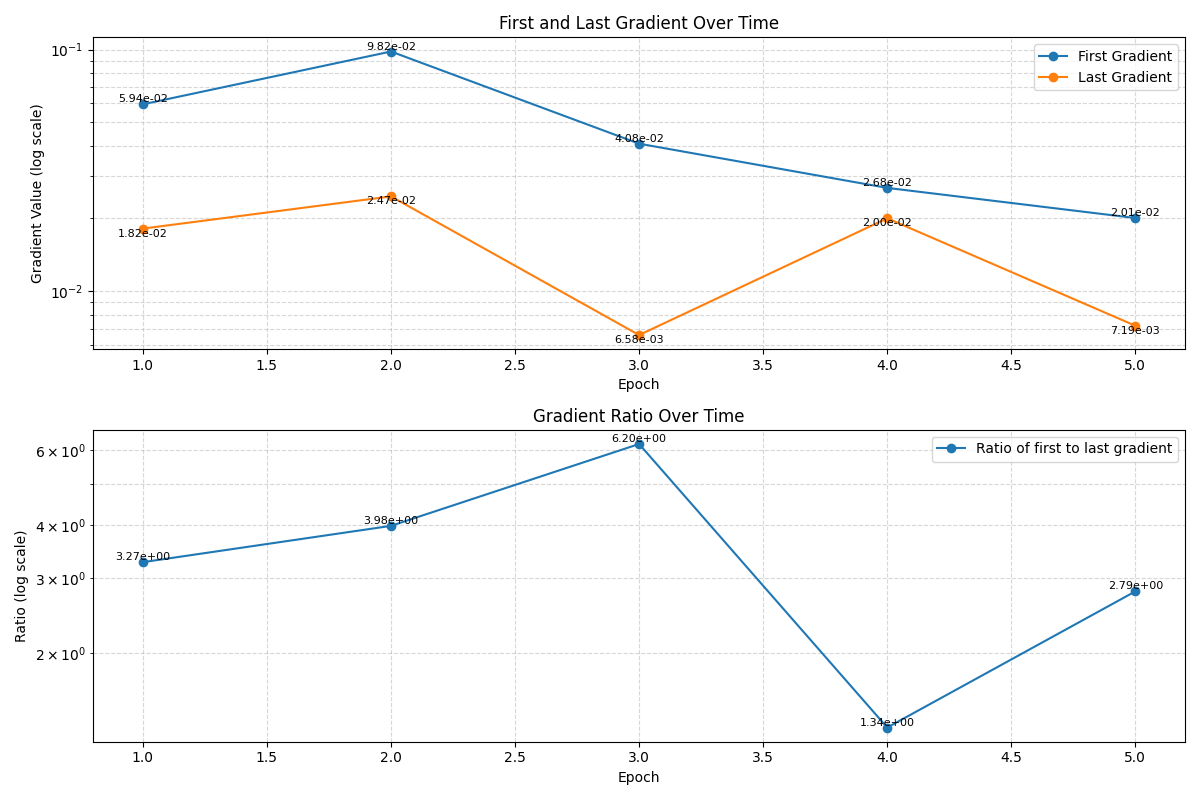
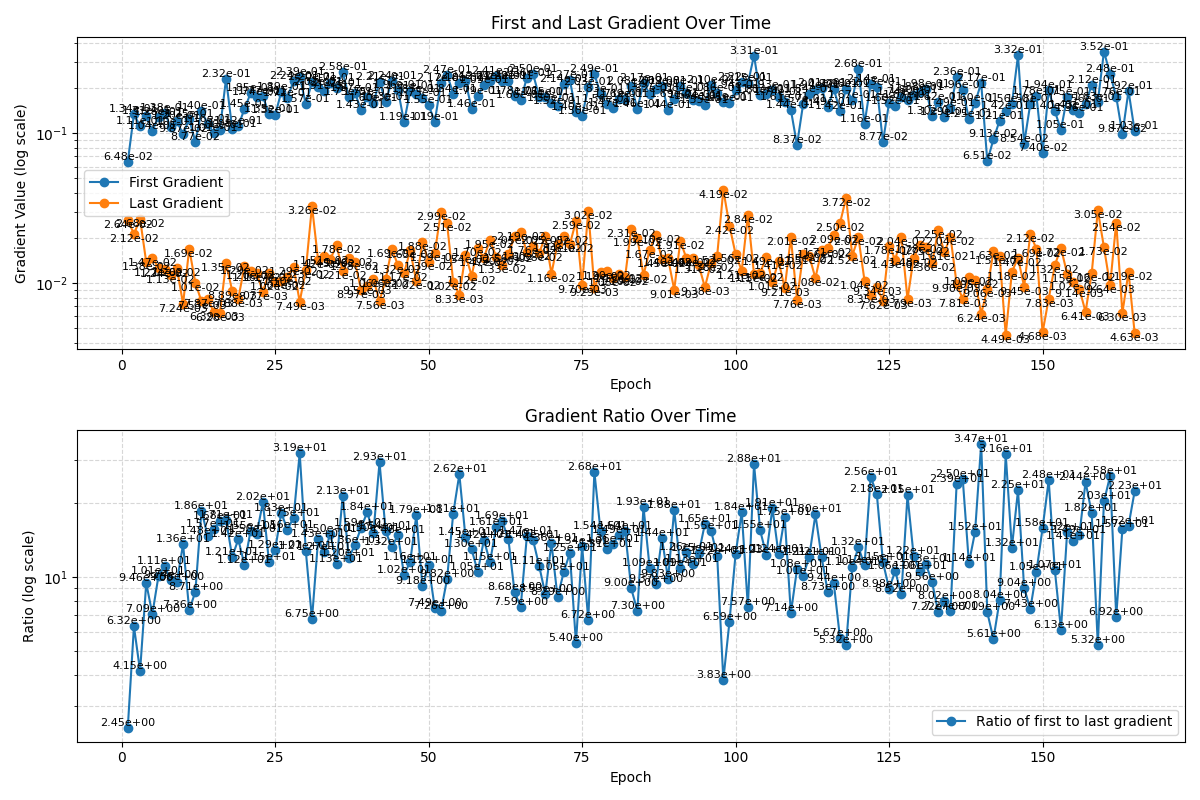
Add Dropout , gamma = 0.5

diff --git a/ssi_implimentation.py b/ssi_implimentation.py
@@ -49,7 +49,7 @@ class EdgesModule(nn.Module):
 Graph Module defines model where input goes into graph, is calculated along several paths, normalised, and outputed
 """
 class GraphModule(nn.Module):
-    def __init__(self, graph, dim):
+    def __init__(self, graph, dim, dropout = 0.2):
         super().__init__()
         # Defining important stuff like the graph dict, the entry and exit node, and how many dimensions in the input data
         self.graph = graph
@@ -57,6 +57,7 @@ class GraphModule(nn.Module):
         self.exit_node = list(graph.keys())[-1]
         self.dim = dim
         self.exit_weight = EdgesModule(self.dim)
+        self.dropout = nn.Dropout(dropout)
 
         # Generating all paths from graph
         self.all_paths = self.generate_paths(graph, self.entry_node, self.exit_node)
@@ -246,21 +247,21 @@ def summarySave(finalLoss, model):
 def sigmoid(x):
     return 1/(1+np.exp(-x))
 
-def customCriterion(logits, y, alpha=None, gamma=2.0):
-    ce_loss = F.cross_entropy(logits, y, reduction='none')  # [batch]
+def customCriterion(logits, y, class_weights, gamma=0.5):
+    ce_loss = F.cross_entropy(logits, y, reduction='none')
     probs = F.softmax(logits, dim=1)
-    pt = probs[range(len(y)), y]  
+    pt = probs[range(len(y)), y]
     
+    # Gentle focusing
     focal_weight = (1 - pt) ** gamma
-    loss = focal_weight * ce_loss
     
-    if alpha is not None:
-        loss = loss * alpha[y]
+    # Apply class weights
+    weighted_loss = focal_weight * ce_loss * class_weights[y]
     
-    return loss.mean()
+    return weighted_loss.mean()
 
 # This is the main training and evaluation loop
-def train_model(model, trainLoader, testLoader, device, epochs=165, lr=0.0005):
+def train_model(model, trainLoader, testLoader, device, epochs=30, lr=0.0001):
     # Compute class weights based on training labels
     penalty_dict = {1: 0.487599, 0: 0.364605, 2: 0.061537, 6: 0.035300, 5: 0.029890, 4: 0.016338, 3: 0.004727}
     max_class = max(penalty_dict.keys())
@@ -301,7 +302,7 @@ def train_model(model, trainLoader, testLoader, device, epochs=165, lr=0.0005):
             logits = model(x)
 
             # Adding a custom penalty to help with the class imbalance
-            base_loss = customCriterion(logits, y)
+            base_loss = customCriterion(logits, y, class_weights)
             probs = F.softmax(logits, dim=1)
 
             confidence_penalty = (1 - probs[range(len(y)), y]) 
